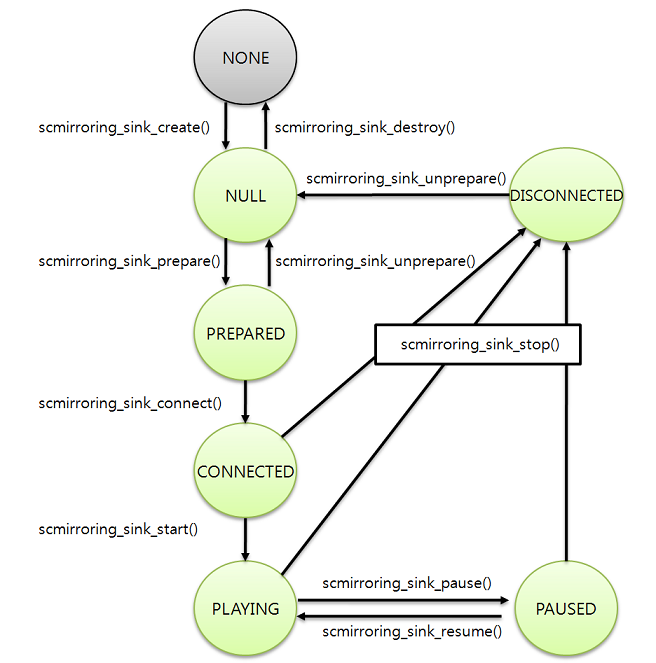
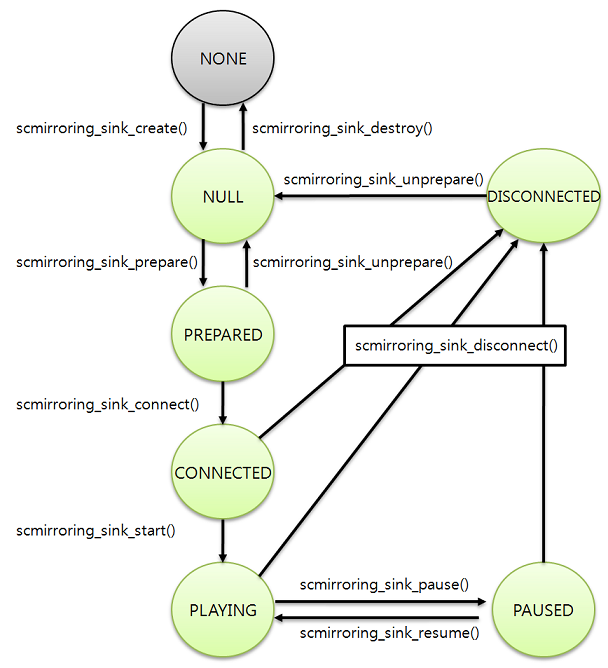
[screen mirroring] Change name of stop API to disconnect.

diff --git a/org.tizen.tutorials/html/native/multimedia/screen_mirroring_n.htm b/org.tizen.tutorials/html/native/multimedia/screen_mirroring_n.htm
@@ -56,7 +56,7 @@
   <p>Connect and Start the screen mirroring sink.</p>
  </li>
  <li><a class="opensection" href="#release">Releasing Resources</a>
-  <p>Stop and unprepare the screen mirroring sink, unregister the callback functions, and destroy the sink handle and release all its resources.</p>
+  <p>Disconnect and unprepare the screen mirroring sink, and destroy the sink handle and release all its resources.</p>
  </li>
  <li><a class="opensection" href="#handle">Handling exception of the screen mirroring sink</a>
   <p>Handle exception of the screen mirroring sink</p>
@@ -146,7 +146,7 @@ static int prepare_scmirroring_sink(scmirroring_display_type_e display_type, Eva
 
 static void scmirroring_state_callback(scmirroring_error_e error_code, scmirroring_state_e state, void *user_data)
 {
-&nbsp;&nbsp;&nbsp;dlog_print(DLOG_ERROR, LOG_TAG, "Received Callback error code[%d]", error_code);
+&nbsp;&nbsp;&nbsp;dlog_print(DLOG_ERROR, LOG_TAG, "Received Callback error code[%d], state[%d]", error_code, state);
 
 &nbsp;&nbsp;&nbsp;switch(state)
 &nbsp;&nbsp;&nbsp;{
@@ -216,7 +216,7 @@ static int start_scmirroring_sink(const char* peer_ip, const char* peer_port)
 static void scmirroring_state_callback(scmirroring_error_e error_code, scmirroring_state_e state, void *user_data)
 {
 &nbsp;&nbsp;&nbsp;int ret;
-&nbsp;&nbsp;&nbsp;dlog_print(DLOG_ERROR, LOG_TAG, "Received Callback error code[%d]", error_code);
+&nbsp;&nbsp;&nbsp;dlog_print(DLOG_ERROR, LOG_TAG, "Received Callback error code[%d], state[%d]", error_code, state);
 
 &nbsp;&nbsp;&nbsp;switch(state)
 &nbsp;&nbsp;&nbsp;{
@@ -229,7 +229,7 @@ static void scmirroring_state_callback(scmirroring_error_e error_code, scmirrori
 &nbsp;&nbsp;&nbsp;&nbsp;&nbsp;&nbsp;&nbsp;&nbsp;&nbsp;if(ret != SCMIRRORING_ERROR_NONE)
 &nbsp;&nbsp;&nbsp;&nbsp;&nbsp;&nbsp;&nbsp;&nbsp;&nbsp;{
 &nbsp;&nbsp;&nbsp;&nbsp;&nbsp;&nbsp;&nbsp;&nbsp;&nbsp;&nbsp;&nbsp;&nbsp;dlog_print(DLOG_ERROR, LOG_TAG, " scmirroring_sink_start fail [%d]", ret);
-&nbsp;&nbsp;&nbsp;&nbsp;&nbsp;&nbsp;&nbsp;&nbsp;&nbsp;&nbsp;&nbsp;&nbsp;return FALSE;
+&nbsp;&nbsp;&nbsp;&nbsp;&nbsp;&nbsp;&nbsp;&nbsp;&nbsp;&nbsp;&nbsp;&nbsp;return;
 &nbsp;&nbsp;&nbsp;&nbsp;&nbsp;&nbsp;&nbsp;&nbsp;&nbsp;}
 &nbsp;&nbsp;&nbsp;&nbsp;&nbsp;&nbsp;&nbsp;&nbsp;&nbsp;break;
 &nbsp;&nbsp;&nbsp;&nbsp;&nbsp;&nbsp;case SCMIRRORING_STATE_PLAYING:
@@ -253,19 +253,19 @@ static void scmirroring_state_callback(scmirroring_error_e error_code, scmirrori
 <span class="fr"><a href="#" class="bt-arr"><em>Hide</em></a></span>
   </div>
 			<div class="devicespec-con">
-<p>After you have finished working with the screen mirroring sink, stop the screen mirroring sink and release all resources:</p>
+<p>After you have finished working with the screen mirroring sink, disconnect the screen mirroring sink and release all resources:</p>
 
 <ol>
- <li>Stop the screen mirroring sink using <span style="font-family: Courier New,Courier,monospace">scmirroring_sink_stop()</span> function. The screen mirroring state will be <span style="font-family: Courier New,Courier,monospace">SCMIRRORING_STATE_DISCONNECTED</span> immediately.</li>
+ <li>Disconnect the screen mirroring sink using <span style="font-family: Courier New,Courier,monospace">scmirroring_sink_disconnect()</span> function. The screen mirroring state will be <span style="font-family: Courier New,Courier,monospace">SCMIRRORING_STATE_DISCONNECTED</span> immediately.</li>
  <li>Unprepare the screen mirroring sink using <span style="font-family: Courier New,Courier,monospace">scmirroring_sink_unprepare()</span> function. The screen mirroring state will be <span style="font-family: Courier New,Courier,monospace">SCMIRRORING_STATE_NULL</span> immediately.</li>
  <li>Destroy the screen mirroring sink using <span style="font-family: Courier New,Courier,monospace">scmirroring_sink_destroy()</span> function. The screen mirroring state will be <span style="font-family: Courier New,Courier,monospace">SCMIRRORING_STATE_NONE</span> immediately.</li>
  <pre class="prettyprint">
 static int destroy_scmirroring_sink()
 {
-&nbsp;&nbsp;&nbsp;ret = scmirroring_sink_stop(g_scmirroring);
+&nbsp;&nbsp;&nbsp;ret = scmirroring_sink_disconnect(g_scmirroring);
 &nbsp;&nbsp;&nbsp;if(ret != SCMIRRORING_ERROR_NONE)
 &nbsp;&nbsp;&nbsp;{
-&nbsp;&nbsp;&nbsp;&nbsp;&nbsp;&nbsp;dlog_print(DLOG_ERROR, LOG_TAG, " scmirroring_sink_stop fail [%d]", ret);
+&nbsp;&nbsp;&nbsp;&nbsp;&nbsp;&nbsp;dlog_print(DLOG_ERROR, LOG_TAG, " scmirroring_sink_disconnect fail [%d]", ret);
 &nbsp;&nbsp;&nbsp;&nbsp;&nbsp;&nbsp;return FALSE;
 &nbsp;&nbsp;&nbsp;}
 
@@ -302,7 +302,7 @@ static int destroy_scmirroring_sink()
 static void scmirroring_state_callback(scmirroring_error_e error_code, scmirroring_state_e state, void *user_data)
 {
 &nbsp;&nbsp;&nbsp;int ret;
-&nbsp;&nbsp;&nbsp;dlog_print(DLOG_ERROR, LOG_TAG, "Received Callback error code[%d]", error_code);
+&nbsp;&nbsp;&nbsp;dlog_print(DLOG_ERROR, LOG_TAG, "Received Callback error code[%d], state[%d]", error_code, state);
 
 &nbsp;&nbsp;&nbsp;switch(state)
 &nbsp;&nbsp;&nbsp;{
@@ -317,11 +317,13 @@ static void scmirroring_state_callback(scmirroring_error_e error_code, scmirrori
 &nbsp;&nbsp;&nbsp;&nbsp;&nbsp;&nbsp;case SCMIRRORING_STATE_PAUSED:
 &nbsp;&nbsp;&nbsp;&nbsp;&nbsp;&nbsp;&nbsp;&nbsp;&nbsp;break;
 &nbsp;&nbsp;&nbsp;&nbsp;&nbsp;&nbsp;case SCMIRRORING_STATE_DISCONNECTED:
-&nbsp;&nbsp;&nbsp;&nbsp;&nbsp;&nbsp;&nbsp;&nbsp;&nbsp;ret = destroy_scmirroring_sink(); // (see <a href="#release">Release Resources</a>)
-&nbsp;&nbsp;&nbsp;&nbsp;&nbsp;&nbsp;&nbsp;&nbsp;&nbsp;if(ret == FALSE)
+&nbsp;&nbsp;&nbsp;&nbsp;&nbsp;&nbsp;&nbsp;&nbsp;&nbsp;ret = scmirroring_sink_unprepare(g_scmirroring);
+&nbsp;&nbsp;&nbsp;&nbsp;&nbsp;&nbsp;&nbsp;&nbsp;&nbsp;if(ret != SCMIRRORING_ERROR_NONE)
 &nbsp;&nbsp;&nbsp;&nbsp;&nbsp;&nbsp;&nbsp;&nbsp;&nbsp;{
-&nbsp;&nbsp;&nbsp;&nbsp;&nbsp;&nbsp;&nbsp;&nbsp;&nbsp;&nbsp;&nbsp;&nbsp;dlog_print(DLOG_ERROR, LOG_TAG, " Failed to destroy the screen mirroring sink");
+&nbsp;&nbsp;&nbsp;&nbsp;&nbsp;&nbsp;&nbsp;&nbsp;&nbsp;&nbsp;&nbsp;&nbsp;dlog_print(DLOG_ERROR, LOG_TAG, " scmirroring_sink_unprepare fail [%d]", ret);
+&nbsp;&nbsp;&nbsp;&nbsp;&nbsp;&nbsp;&nbsp;&nbsp;&nbsp;&nbsp;&nbsp;&nbsp;return;
 &nbsp;&nbsp;&nbsp;&nbsp;&nbsp;&nbsp;&nbsp;&nbsp;&nbsp;}
+&nbsp;&nbsp;&nbsp;&nbsp;&nbsp;&nbsp;&nbsp;&nbsp;&nbsp;/* Fill what you want to do*/
 &nbsp;&nbsp;&nbsp;&nbsp;&nbsp;&nbsp;&nbsp;&nbsp;&nbsp;break;
 &nbsp;&nbsp;&nbsp;&nbsp;&nbsp;&nbsp;case SCMIRRORING_STATE_NONE:
 &nbsp;&nbsp;&nbsp;&nbsp;&nbsp;&nbsp;&nbsp;&nbsp;&nbsp;break;

diff --git a/org.tizen.guides/html/native/multimedia/screen_mirroring_n.htm b/org.tizen.guides/html/native/multimedia/screen_mirroring_n.htm
@@ -43,7 +43,7 @@
   </ul>
   <h2 id="screen_mirroring_sink" name="screen_mirroring_sink">Screen Mirroring sink</h2>
   <p>The screen mirroring sink receives shared data from the source device which support Wi-Fi Display and display it.</p>
-  <p>The screen mirroring sink API gives you the ability to connect to screen mirroring source, start / stop / pause / resume screen mirroring sink, set resolution or display, register callback function to check state change.</P>
+  <p>The screen mirroring sink API gives you the ability to connect / disconnect with screen mirroring source, start / pause / resume screen mirroring sink, set resolution or display, register callback function to check state change.</P>
   <p>You should register the callback function using <span style="font-family: Courier New,Courier,monospace">scmirroring_sink_set_state_changed_cb()</span> to check screen mirroring state. The callback is called for state and error of screen mirroring.</p>
   <p>All functions that change the state are synchronous except <span style="font-family: Courier New,Courier,monospace">scmirroring_sink_connect()</span>, <span style="font-family: Courier New,Courier,monospace">scmirroring_sink_start()</span>, <span style="font-family: Courier New,Courier,monospace">scmirroring_sink_pause()</span>, and <span style="font-family: Courier New,Courier,monospace">scmirroring_sink_resume()</span>. </p>
   <p>Thus the result is passed to the application via the callback mechanism.</p>
